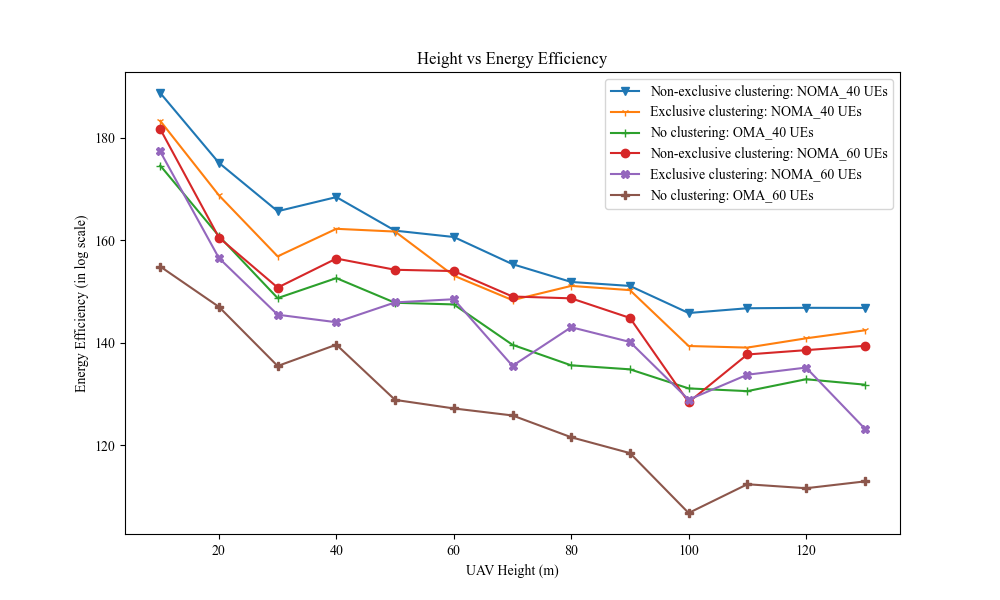
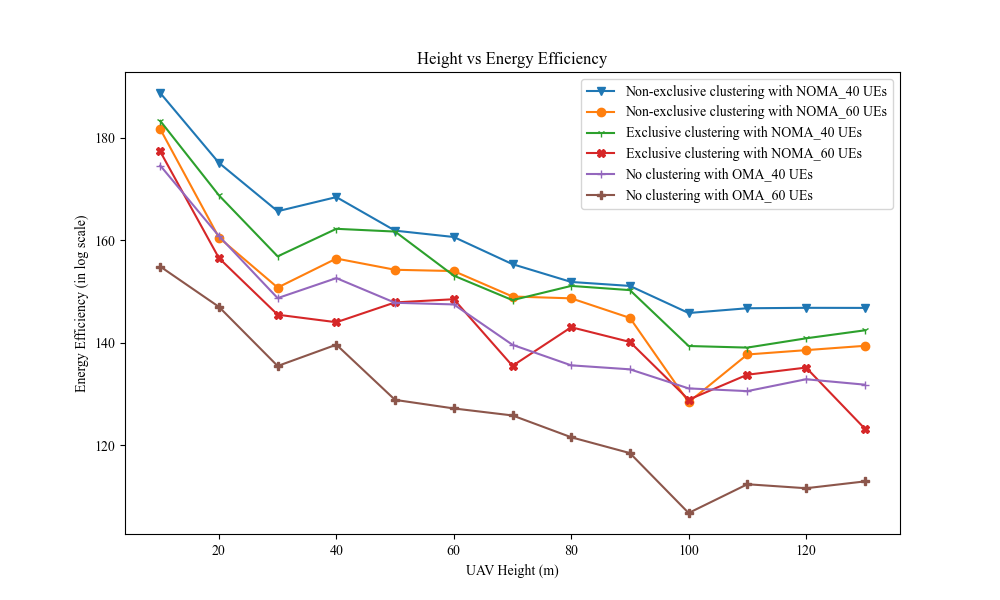
graph labels changed add ' with' in place of ':'

diff --git a/plot_height_vs_power.py b/plot_height_vs_power.py
@@ -6,14 +6,14 @@ plt.rcParams['font.family'] = 'serif'
 plt.rcParams['font.serif'] = 'Times New Roman'
 plt.rcParams['mathtext.fontset'] = 'custom'
 plt.rcParams['mathtext.rm'] = 'Times New Roman'
-plt.rcParams['mathtext.it'] = 'Times New Roman:italic'
-plt.rcParams['mathtext.bf'] = 'Times New Roman:bold'
+plt.rcParams['mathtext.it'] = 'Times New Roman withitalic'
+plt.rcParams['mathtext.bf'] = 'Times New Roman withbold'
 
 # Read data from CSV file
 csv_file_name = 'data_height_vs_energyEfficiency.csv'
 data = pd.read_csv(csv_file_name)
 
-# Plot 1: Height vs NOMA_total_power and OMA_total_power
+# Plot 1 with Height vs NOMA_total_power and OMA_total_power
 # plt.figure(figsize=(10, 6))
 # plt.plot(data['height'], [46]*len(data['height']), 'r--', label='maximum power')
 # plt.plot(data['height'], data['NOMA_total_power_40'], label='NOMA_total_power_40_UEs', marker='o')
@@ -28,12 +28,12 @@ data = pd.read_csv(csv_file_name)
 
 # Plot 2: Height vs NOMA_energy_efficiency and OMA_energy_efficiency
 plt.figure(figsize=(10, 6))
-plt.plot(data['height'], data['NOMA_energy_efficiency_40'], label='Non-exclusive clustering: NOMA_40 UEs', marker='v')
-plt.plot(data['height'], data['ex-NOMA_energy_efficiency_40'], label='Exclusive clustering: NOMA_40 UEs', marker='1')
-plt.plot(data['height'], data['OMA_energy_efficiency_40'], label='No clustering: OMA_40 UEs', marker='+')
-plt.plot(data['height'], data['NOMA_energy_efficiency_60'], label='Non-exclusive clustering: NOMA_60 UEs', marker='o')
-plt.plot(data['height'], data['ex-NOMA_energy_efficiency_60'], label='Exclusive clustering: NOMA_60 UEs', marker='X')
-plt.plot(data['height'], data['OMA_energy_efficiency_60'], label='No clustering: OMA_60 UEs', marker='P')
+plt.plot(data['height'], data['NOMA_energy_efficiency_40'], label='Non-exclusive clustering with NOMA_40 UEs', marker='v')
+plt.plot(data['height'], data['NOMA_energy_efficiency_60'], label='Non-exclusive clustering with NOMA_60 UEs', marker='o')
+plt.plot(data['height'], data['ex-NOMA_energy_efficiency_40'], label='Exclusive clustering with NOMA_40 UEs', marker='1')
+plt.plot(data['height'], data['ex-NOMA_energy_efficiency_60'], label='Exclusive clustering with NOMA_60 UEs', marker='X')
+plt.plot(data['height'], data['OMA_energy_efficiency_40'], label='No clustering with OMA_40 UEs', marker='+')
+plt.plot(data['height'], data['OMA_energy_efficiency_60'], label='No clustering with OMA_60 UEs', marker='P')
 plt.xlabel('UAV Height (m)')
 plt.ylabel('Energy Efficiency (in log scale)')
 plt.title('Height vs Energy Efficiency')

diff --git a/plot_user_vs_power.py b/plot_user_vs_power.py
@@ -16,9 +16,9 @@ data = pd.read_csv(csv_file_name)
 # Plot 1: Number of UEs vs NOMA_total_power and OMA_total_power
 plt.figure(figsize=(10, 6))
 plt.plot(data['number_of_UEs'], [46]*len(data['number_of_UEs']), 'r--', label='maximum power')
-plt.plot(data['number_of_UEs'], data['NOMA_total_power'], label='Non-exclusive clustering: NOMA', marker='o')
-plt.plot(data['number_of_UEs'], data['ex-NOMA_total_power'], label='Exclusive clustering: NOMA', marker='o')
-plt.plot(data['number_of_UEs'], data['OMA_total_power'], label='No clustering: OMA', marker='s')
+plt.plot(data['number_of_UEs'], data['NOMA_total_power'], label='Non-exclusive clustering with NOMA', marker='o')
+plt.plot(data['number_of_UEs'], data['ex-NOMA_total_power'], label='Exclusive clustering with NOMA', marker='o')
+plt.plot(data['number_of_UEs'], data['OMA_total_power'], label='No clustering with OMA', marker='s')
 plt.xlabel('Number of UEs')
 plt.ylabel('Total Transmit Power (dBm)')
 plt.title('Number of UEs vs Total Transmit Power')
@@ -27,9 +27,9 @@ plt.savefig('Fig_UEs_vs_TotalPower.png')
 
 # Plot 2: Number of UEs vs NOMA_energy_efficiency and OMA_energy_efficiency
 plt.figure(figsize=(10, 6))
-plt.plot(data['number_of_UEs'], data['NOMA_energy_efficiency'], label='Non-exclusive clustering: NOMA', marker='o')
-plt.plot(data['number_of_UEs'], data['ex-NOMA_energy_efficiency'], label='Exclusive clustering: NOMA', marker='1')
-plt.plot(data['number_of_UEs'], data['OMA_energy_efficiency'], label='No clustering: OMA', marker='s')
+plt.plot(data['number_of_UEs'], data['NOMA_energy_efficiency'], label='Non-exclusive clustering with NOMA', marker='o')
+plt.plot(data['number_of_UEs'], data['ex-NOMA_energy_efficiency'], label='Exclusive clustering with NOMA', marker='1')
+plt.plot(data['number_of_UEs'], data['OMA_energy_efficiency'], label='No clustering with OMA', marker='s')
 plt.xlabel('Number of UEs')
 plt.ylabel('Energy Efficiency (in log scale)')
 plt.title('Number of UEs vs Energy Efficiency')
